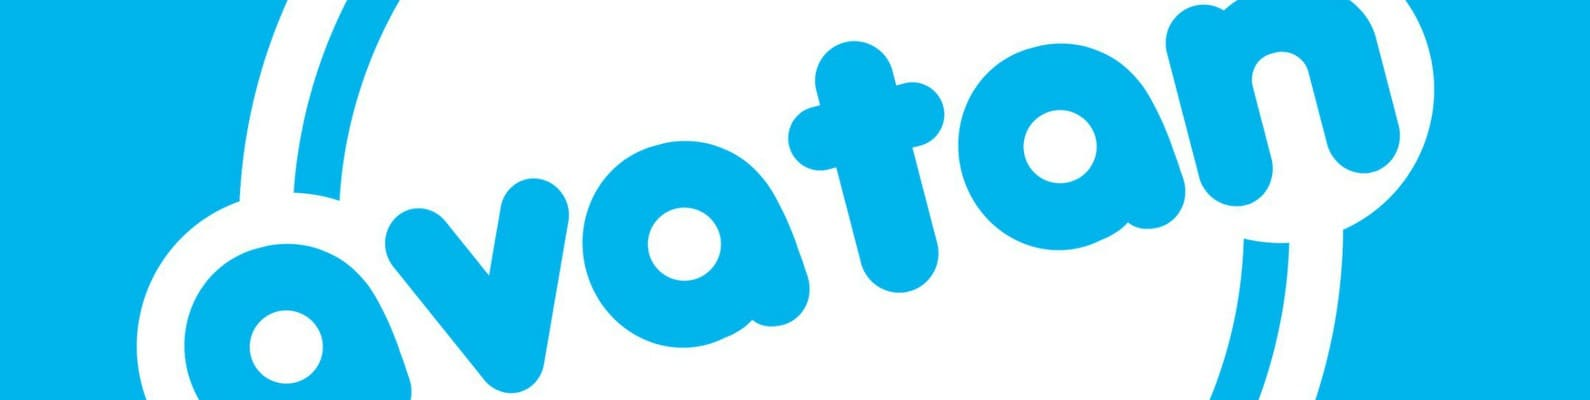
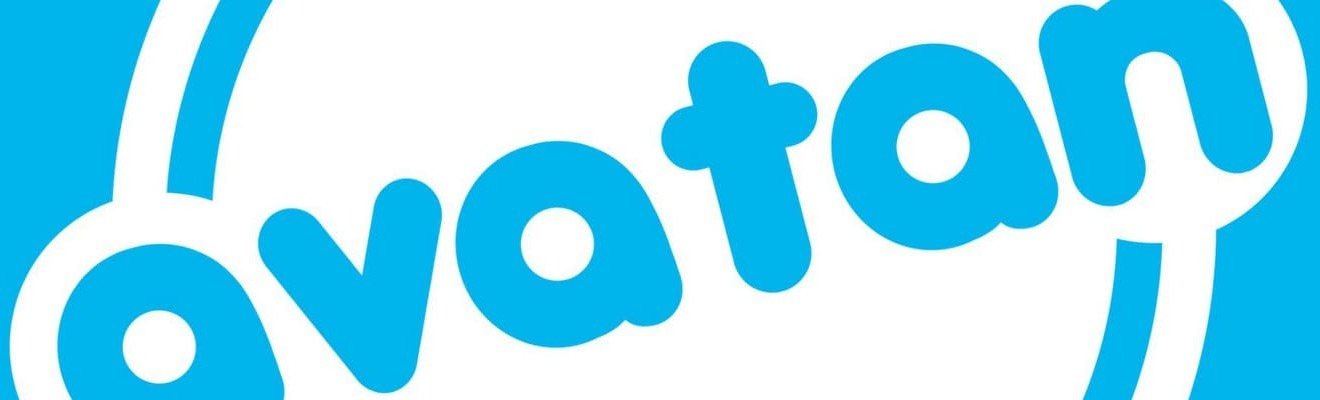
1

diff --git a/index.html b/index.html
@@ -5,17 +5,14 @@
 
 		<meta name="yandex-verification" content="b6ec5630c279bac8">
 
-		<base href="/public/">
-
 		<meta http-equiv="content-type" content="text/html; charset=utf-8">
 		<meta http-equiv="x-ua-compatible" content="ie=edge">
 
-		<meta name="keywords" content="Аватан, Avatan, Скачать Аватан на компьютер">
-		<meta name="description" content="">
+		<meta name="keywords" content="Скачать Аватан, Скачать Avatan, Скачать Аватан на компьютер, Скачать Аватан на Windows">
+		<meta name="description" content="Скачать Avatan - Фоторедактор. Эффекты и Ретушь. Скачайте фоторедактор Аватан на Windows и редактируйте свои фотографии как прежде.">
 
 		<meta name="document-state" content="dynamic">
-		<meta name="author" content="">
-		<meta name="copyright" content="">
+		<meta name="copyright" content="Copyright © Avatan 2015">
 		<meta name="viewport" content="width=device-width, height=device-height, initial-scale=1.0">
 		<meta name="handheldfriendly" content="true">
 		<meta name="format-detection" content="telephone=no">
@@ -24,45 +21,38 @@
 		<meta name="apple-mobile-web-app-capable" content="yes">
 		<meta name="apple-mobile-web-app-status-bar-style" content="black-translucent">
 		<meta name="msapplication-window" content="width=400;height=300">
-		<meta name="msapplication-tileimage" content="css/resources/icons/icon.png">
+		<meta name="msapplication-tileimage" content="public/css/resources/icons/icon.png">
 		<meta name="msapplication-tilecolor" content="#2ea3e8">
 
-		<link rel="canonical" href="https://avatan-soft.github.io">
+		<link rel="canonical" href="https://avatan-soft.github.io/">
 
 		<meta name="theme-color" content="#2ea3e8">
 
 		<meta property="og:title" content="Avatan - Фоторедактор. Эффекты и Ретушь.">
-		<meta property="og:description" content="">
+		<meta property="og:description" content="Скачать Avatan - Фоторедактор. Эффекты и Ретушь. Скачайте фоторедактор Аватан на Windows и редактируйте свои фотографии как прежде.">
 		<meta property="og:type" content="website">
 		<meta property="og:url" content="https://avatan-soft.github.io/">
-		<meta property="og:image" content="https://avatan-soft.github.io/public/css/resources/images/avatan.jpg">
-		<meta property="og:image:secure_url" content="https://avatan-soft.github.io/public/css/resources/images/avatan.jpg">
+		<meta property="og:image" content="public/css/resources/images/avatan.jpg">
+		<meta property="og:image:secure_url" content="public/css/resources/images/avatan.jpg">
 		<meta property="og:image:type" content="image/jpeg">
-		<meta property="og:image:width" content="1200">
-		<meta property="og:image:height" content="630">
+		<meta property="og:image:width" content="1320">
+		<meta property="og:image:height" content="400">
 		<meta property="og:site_name" content="Avatan - Фоторедактор. Эффекты и Ретушь.">
-
 
 		<meta property="url" content="https://avatan-soft.github.io/">
 		<meta property="name" content="Avatan - Фоторедактор. Эффекты и Ретушь.">
-		<meta property="description" content="">
-		<meta property="image" content="https://avatan-soft.github.io/public/css/resources/images/avatan.jpg">
-
-		<meta name="twitter:card" content="">
-		<meta name="twitter:title" content="">
-		<meta name="twitter:description" content="">
-		<meta name="twitter:image" content="https://avatan-soft.github.io/public/css/resources/images/avatan.jpg">
-		<meta name="twitter:image:alt" content="https://avatan-soft.github.io/public/css/resources/images/avatan.jpg">
+		<meta property="description" content="Скачать Avatan - Фоторедактор. Эффекты и Ретушь. Скачайте фоторедактор Аватан на Windows и редактируйте свои фотографии как прежде.">
+		<meta property="image" content="public/css/resources/images/avatan.jpg">
 
 		<meta name="apple-mobile-web-app-title" content="Avatan - Фоторедактор. Эффекты и Ретушь.">
 		<meta name="apple-mobile-web-app-status-bar-style" content="#2ea3e8">
 		<meta name="apple-mobile-web-app-capable" content="yes">
 		<meta name="mobile-web-app-capable" content="yes">
 
-		<link rel="icon" type="image/png" sizes="16x16" href="css/resources/icons/favicon-16x16.png">
+		<link rel="icon" type="image/png" sizes="16x16" href="public/css/resources/icons/favicon-16x16.png">
 
-		<link rel="stylesheet" href="css/reset.css">
-		<link rel="stylesheet" href="css/index.css">
+		<link rel="stylesheet" href="public/css/reset.css">
+		<link rel="stylesheet" href="public/css/index.css">
 
 		<!-- Yandex.Metrika counter -->
 		<script>
@@ -80,7 +70,6 @@
 			});
 		</script>
 		<!-- https://mc.yandex.ru/metrika/tag.js -->
-
 
 		<!-- Google tag (gtag.js) -->
 		<script async src="https://www.googletagmanager.com/gtag/js?id=G-ZPGWED1808"></script>
@@ -101,7 +90,7 @@
 
 				<section class="block downloads">
 					<h1>Скачать Avatan - Фоторедактор. Эффекты и Ретушь.</h1>
-					<a href="https://avatan-soft.github.io/files/SetupAvatan.exe" download>Скачать</a>
+					<a href="files/SetupAvatan.exe" download>Скачать</a>
 					<span class="windows">Для Windows</span>
 					<span class="avatan">SetupAvatan.exe</span>
 				</section>
@@ -110,26 +99,26 @@
 					<h2>Инструкция по установке</h2>
 
 					<p><strong>1.</strong> После того, как вы скачали и запустили Аватан (SetupAvatan.exe), выберите или оставьте по умолчанию путь для установки программы и нажмите "Далее":</p>
-					<img src="css/resources/images/1.png" alt='После того, как вы скачали и запустили Аватан (SetupAvatan.exe), выберите или оставьте по умолчанию путь для установки программы и нажмите "Далее".'>
+					<img src="public/css/resources/images/1.png" alt='После того, как вы скачали и запустили Аватан (SetupAvatan.exe), выберите или оставьте по умолчанию путь для установки программы и нажмите "Далее".'>
 
 					<p><strong>2.</strong> Обязательно проверьте чтобы стояла галочка "Создать значок на Рабочем столе" и нажмите "Далее":</p>
-					<img src="css/resources/images/2.png" alt='Обязательно проверьте чтобы стояла галочка "Создать значок на Рабочем столе" и нажмите "Далее".'>
+					<img src="public/css/resources/images/2.png" alt='Обязательно проверьте чтобы стояла галочка "Создать значок на Рабочем столе" и нажмите "Далее".'>
 
 					<p><strong>3.</strong> Нажмите "Установить":</p>
-					<img src="css/resources/images/3.png" alt='Нажмите "Установить".'>
+					<img src="public/css/resources/images/3.png" alt='Нажмите "Установить".'>
 
 					<p><strong>4.</strong> Дождитесь завершения установки:</p>
-					<img src="css/resources/images/4.png" alt="Дождитесь завершения установки.">
+					<img src="public/css/resources/images/4.png" alt="Дождитесь завершения установки.">
 
 					<p><strong>5.</strong> Запустите программу:</p>
-					<img src="css/resources/images/5.png" alt="Запустите программу.">
+					<img src="public/css/resources/images/5.png" alt="Запустите программу.">
 
 
 					<p><strong>6.</strong> После загрузки программы может появится такое окошко с ошибкой. Просто закройте его:</p>
-					<img src="css/resources/images/6.png" alt="После загрузки программы может появится такое окошко с ошибкой. Просто закройте его.">
+					<img src="public/css/resources/images/6.png" alt="После загрузки программы может появится такое окошко с ошибкой. Просто закройте его.">
 
 					<p class="last"><strong>7.</strong> Пользуйтесь Аватаном на компьютере :)</p>
-					<img src="css/resources/images/7.png" alt="Пользуйтесь Аватаном на компьютере :)">
+					<img src="public/css/resources/images/7.png" alt="Пользуйтесь Аватаном на компьютере :)">
 				</article>
 			</main>
 		</div>
